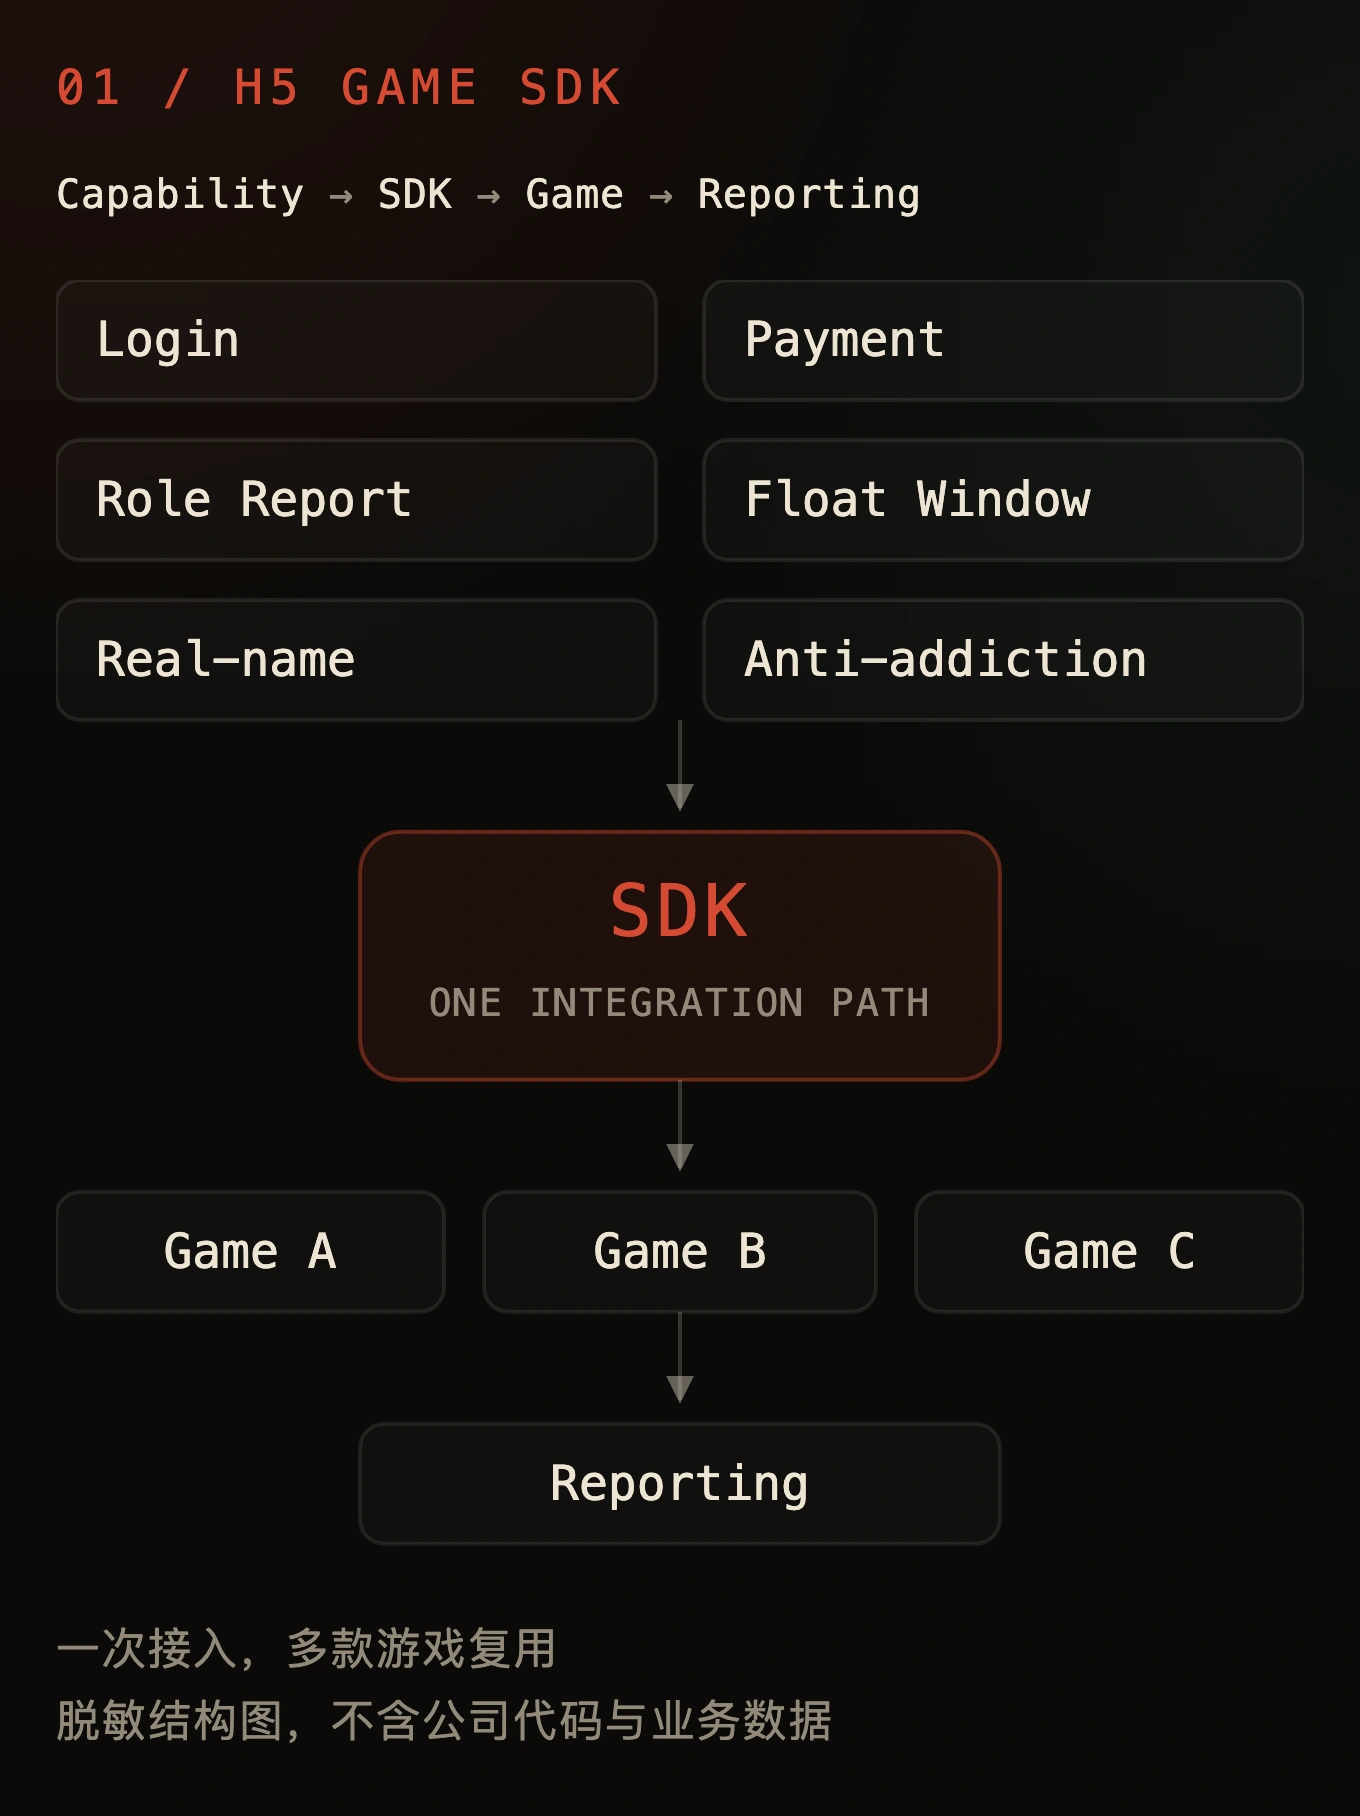
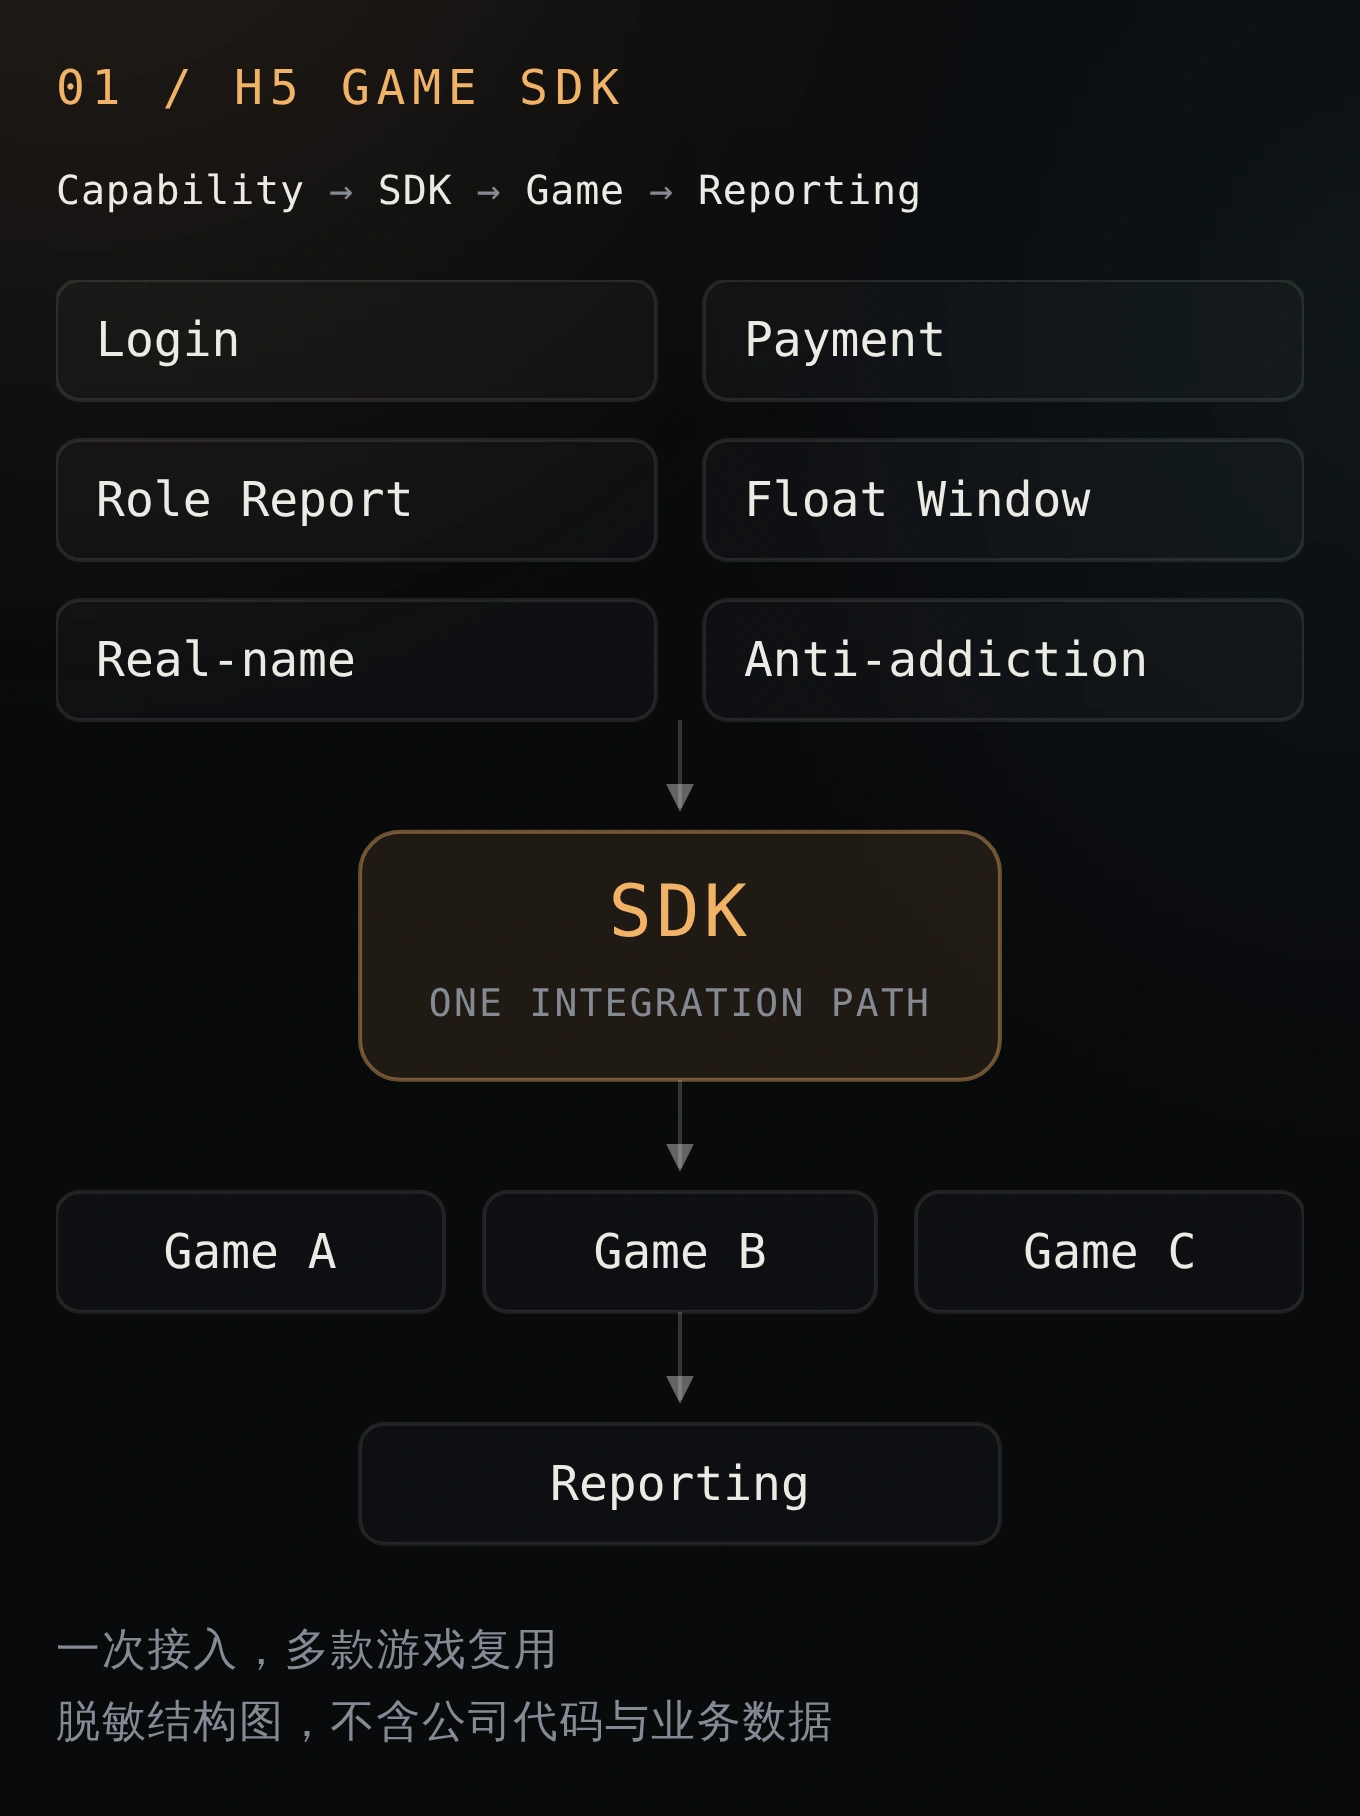
chore(assets): 封面、分享图与图标换成夜间地图配色
Claude-Session: https://claude.ai/code/session_01VZToSCypYTHhqXqKzyXQxT

diff --git a/tools/og/share.html b/tools/og/share.html
@@ -10,11 +10,11 @@
       }
       html,
       body {
-        background: #0b0a08;
+        background: #08090c;
       }
       .og {
         align-items: center;
-        background: #0b0a08;
+        background: #08090c;
         display: flex;
         height: 630px;
         justify-content: space-between;
@@ -29,14 +29,14 @@
         position: absolute;
       }
       .glow-a {
-        background: radial-gradient(circle, rgba(214, 74, 50, 0.28), rgba(214, 74, 50, 0) 70%);
+        background: radial-gradient(circle, rgba(242, 178, 102, 0.22), rgba(242, 178, 102, 0) 70%);
         height: 620px;
         right: -120px;
         top: -180px;
         width: 620px;
       }
       .glow-b {
-        background: radial-gradient(circle, rgba(62, 142, 126, 0.18), rgba(62, 142, 126, 0) 70%);
+        background: radial-gradient(circle, rgba(95, 191, 174, 0.12), rgba(95, 191, 174, 0) 70%);
         bottom: -220px;
         height: 520px;
         left: -140px;
@@ -48,31 +48,43 @@
         z-index: 1;
       }
       .brand {
-        color: #ede4d3;
+        color: #eceae4;
         font-family: Georgia, 'Songti SC', 'STSong', serif;
-        font-size: 96px;
-        font-weight: 600;
+        font-size: 104px;
+        font-style: italic;
+        font-weight: 400;
         letter-spacing: -0.02em;
         line-height: 1;
       }
-      .brush {
-        display: block;
-        margin: 14px 0 0;
-        width: 300px;
+      /* 夜间地图的等高线地形（docs/NIGHT-MAP.md） */
+      .terrain {
+        background: repeating-linear-gradient(176deg, transparent 0 17px, rgba(142, 147, 158, 0.22) 17px 18px);
+        bottom: -40px;
+        height: 340px;
+        left: -60px;
+        -webkit-mask-image: linear-gradient(transparent, #000 70%);
+        mask-image: linear-gradient(transparent, #000 70%);
+        position: absolute;
+        right: -60px;
+        transform: perspective(600px) rotateX(48deg);
+        transform-origin: 50% 100%;
+      }
+      .brand span {
+        color: #f2b266;
       }
       .tagline {
-        color: #ede4d3;
+        color: #eceae4;
         font-family: 'Songti SC', 'STSong', Georgia, serif;
         font-size: 42px;
         line-height: 1.4;
         margin-top: 34px;
       }
       .tagline b {
-        color: #d64a32;
+        color: #f2b266;
         font-weight: 600;
       }
       .meta {
-        color: #a79e8c;
+        color: #a3a6ae;
         font-family: -apple-system, 'PingFang SC', sans-serif;
         font-size: 22px;
         letter-spacing: 0.02em;
@@ -87,9 +99,9 @@
         z-index: 1;
       }
       .ring {
-        border: 1px solid rgba(237, 228, 211, 0.14);
+        border: 1px solid rgba(242, 178, 102, 0.55);
         border-radius: 50%;
-        box-shadow: 0 0 80px rgba(214, 74, 50, 0.28);
+        box-shadow: 0 0 0 10px rgba(242, 178, 102, 0.08), 0 0 80px rgba(242, 178, 102, 0.22);
         height: 380px;
         overflow: hidden;
         width: 380px;
@@ -106,9 +118,9 @@
     <div class="og">
       <div class="glow-a"></div>
       <div class="glow-b"></div>
+      <div class="terrain"></div>
       <div class="left">
-        <div class="brand">hackrabbit</div>
-        <img class="brush" src="../../public/brush.svg" alt="" />
+        <div class="brand">hack<span>rabbit</span></div>
         <p class="tagline">帮普通人看懂 <b>AI 时代</b>里<br />和自己有关的变化。</p>
         <p class="meta">前端工程师 / 独立开发 · hackrabbit.cc.cd</p>
       </div>

diff --git a/tools/covers/cover.css b/tools/covers/cover.css
@@ -2,18 +2,18 @@
    数值取自 src/styles/tokens.css，字号按「在页面上 1:1 显示」来定，不做二次缩放。 */
 
 :root {
-  --bg: #0b0a08;
-  --ink: #ede4d3;
-  --dim: #a79e8c;
+  --bg: #08090c;
+  --ink: #eceae4;
+  --dim: #a3a6ae;
   /* 4.5:1 是 WCAG AA 对正文级字号的下限；Cover 里的说明行和图注是画进位图的，
      DOM 对比度审计查不到，只能在这里定死（--faint 对 --bg 约 5.6:1）。 */
-  --faint: #928a7a;
-  --accent: #d64a32;
-  --cyan: #3e8e7e;
-  --amber: #c9a227;
-  --line: rgba(237, 228, 211, 0.1);
-  --chip: rgba(237, 228, 211, 0.03);
-  --rule: rgba(237, 228, 211, 0.2);
+  --faint: #858a94;
+  --accent: #f2b266;
+  --cyan: #5fbfae;
+  --amber: #f2b266;
+  --line: rgba(236, 234, 228, 0.1);
+  --chip: rgba(236, 234, 228, 0.03);
+  --rule: rgba(236, 234, 228, 0.2);
   --mono: ui-monospace, SFMono-Regular, Menlo, monospace;
 }
 
@@ -30,8 +30,8 @@ body {
 
 .cover {
   background:
-    radial-gradient(120% 90% at 6% -12%, rgba(214, 74, 50, 0.12), transparent 58%),
-    radial-gradient(90% 80% at 102% 18%, rgba(62, 142, 126, 0.07), transparent 60%), var(--bg);
+    radial-gradient(120% 90% at 6% -12%, rgba(242, 178, 102, 0.12), transparent 58%),
+    radial-gradient(90% 80% at 102% 18%, rgba(95, 191, 174, 0.07), transparent 60%), var(--bg);
   color: var(--ink);
   display: flex;
   flex-direction: column;
@@ -168,8 +168,8 @@ body {
 }
 
 .n-key {
-  fill: rgba(214, 74, 50, 0.1);
-  stroke: rgba(214, 74, 50, 0.42);
+  fill: rgba(242, 178, 102, 0.1);
+  stroke: rgba(242, 178, 102, 0.42);
 }
 
 .n-ghost {
@@ -212,7 +212,7 @@ body {
 
 .ln-ghost {
   fill: none;
-  stroke: rgba(237, 228, 211, 0.16);
+  stroke: rgba(236, 234, 228, 0.16);
   stroke-dasharray: 3 3;
   stroke-width: 1;
 }
@@ -240,7 +240,7 @@ body {
 }
 
 .term-bar b {
-  background: rgba(237, 228, 211, 0.18);
+  background: rgba(236, 234, 228, 0.18);
   border-radius: 50%;
   display: block;
   height: 7px;

diff --git a/tools/covers/03-digital-loved-one.html b/tools/covers/03-digital-loved-one.html
@@ -8,10 +8,10 @@
     <svg width="278" height="233" viewBox="0 0 278 233" xmlns="http://www.w3.org/2000/svg">
       <defs>
         <marker id="a" markerWidth="7" markerHeight="7" refX="6" refY="3.5" orient="auto">
-          <path d="M0 0 L7 3.5 L0 7 z" fill="rgba(237,228,211,0.4)" />
+          <path d="M0 0 L7 3.5 L0 7 z" fill="rgba(236, 234, 228,0.4)" />
         </marker>
         <marker id="ag" markerWidth="7" markerHeight="7" refX="6" refY="3.5" orient="auto">
-          <path d="M0 0 L7 3.5 L0 7 z" fill="rgba(237,228,211,0.24)" />
+          <path d="M0 0 L7 3.5 L0 7 z" fill="rgba(236, 234, 228,0.24)" />
         </marker>
       </defs>
 
@@ -24,7 +24,7 @@
       <path class="ln" d="M75 90 V102" marker-end="url(#a)" />
 
       <rect class="n-key" x="0" y="108" width="150" height="28" rx="6" />
-      <text class="t" x="12" y="122" dominant-baseline="central" style="fill: #D64A32">Grounding</text>
+      <text class="t" x="12" y="122" dominant-baseline="central" style="fill: #f2b266">Grounding</text>
 
       <!-- 有依据：正常回答 -->
       <path class="ln" d="M75 136 V166" marker-end="url(#a)" />

diff --git a/tools/covers/02-ai-music.html b/tools/covers/02-ai-music.html
@@ -8,12 +8,12 @@
     <svg width="278" height="233" viewBox="0 0 278 233" xmlns="http://www.w3.org/2000/svg">
       <defs>
         <marker id="a" markerWidth="7" markerHeight="7" refX="6" refY="3.5" orient="auto">
-          <path d="M0 0 L7 3.5 L0 7 z" fill="rgba(237,228,211,0.4)" />
+          <path d="M0 0 L7 3.5 L0 7 z" fill="rgba(236, 234, 228,0.4)" />
         </marker>
         <linearGradient id="wave" x1="0" y1="0" x2="1" y2="0">
-          <stop offset="0" stop-color="#D64A32" stop-opacity="0.35" />
-          <stop offset="0.5" stop-color="#D64A32" stop-opacity="0.85" />
-          <stop offset="1" stop-color="#3E8E7E" stop-opacity="0.5" />
+          <stop offset="0" stop-color="#f2b266" stop-opacity="0.35" />
+          <stop offset="0.5" stop-color="#f2b266" stop-opacity="0.85" />
+          <stop offset="1" stop-color="#5fbfae" stop-opacity="0.5" />
         </linearGradient>
       </defs>
 

diff --git a/tools/covers/01-h5-game-sdk.html b/tools/covers/01-h5-game-sdk.html
@@ -12,7 +12,7 @@
     <svg width="620" height="343" viewBox="0 0 620 343" xmlns="http://www.w3.org/2000/svg">
       <defs>
         <marker id="a" markerWidth="7" markerHeight="7" refX="6" refY="3.5" orient="auto">
-          <path d="M0 0 L7 3.5 L0 7 z" fill="rgba(237,228,211,0.4)" />
+          <path d="M0 0 L7 3.5 L0 7 z" fill="rgba(236, 234, 228,0.4)" />
         </marker>
       </defs>
 

diff --git a/tools/covers/01m-h5-game-sdk.html b/tools/covers/01m-h5-game-sdk.html
@@ -13,7 +13,7 @@
     <svg width="312" height="320" viewBox="0 0 312 320" xmlns="http://www.w3.org/2000/svg">
       <defs>
         <marker id="a" markerWidth="7" markerHeight="7" refX="6" refY="3.5" orient="auto">
-          <path d="M0 0 L7 3.5 L0 7 z" fill="rgba(237,228,211,0.4)" />
+          <path d="M0 0 L7 3.5 L0 7 z" fill="rgba(236, 234, 228,0.4)" />
         </marker>
       </defs>
 
